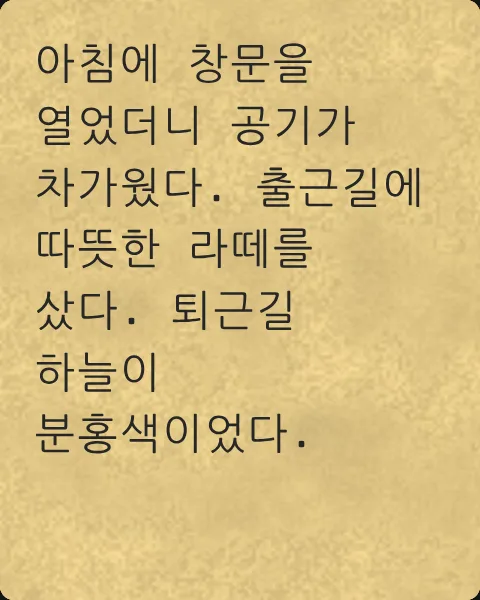
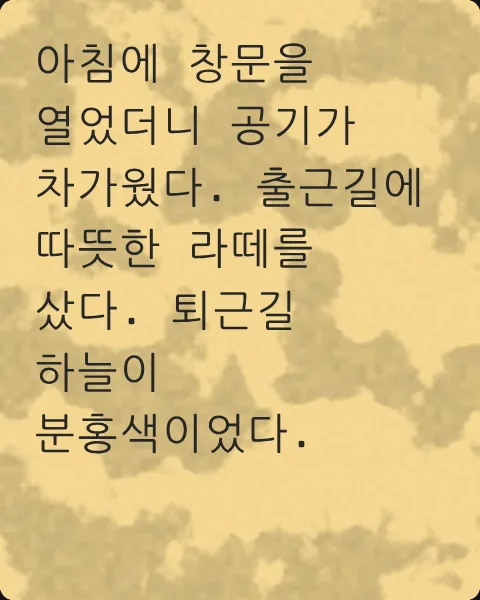
97차: 타자 메모 — 1차 줄 컬러 오른쪽에 이미지 칸(사진 고르기 · 바꾸기 · 빼기, 키보드 줄 사진 칸 없앰), 셔플 = 무늬 5종(풀숲 · 잎 그늘 · 물결 · 구름 하늘 · 종이 결) · 사진은 바램 · 보이는 부분 · 크기, 타이핑 모션 천천히(한 자 0.18초 · 3초 쉼 · 최대 20초 · 80칸)
Claude-Session: https://claude.ai/code/session_018YFXtycg7XUaka8AzxDZiV

diff --git a/app/new/tpl/typer/tpl.css b/app/new/tpl/typer/tpl.css
@@ -40,47 +40,87 @@
 .cd.ctyp .rb .ph { color: rgba(38,38,38,.45); }
 .cd.ctyp.edit.empty::after { background: rgba(38,38,38,.12); color: #3a3a3a; }
 .cd.ctyp .cur { display: none; }
-/* 모션 (피드 가운데 카드만): 8초마다 처음부터 한 자씩 찍혀요. 글자마다 나타나는 때를 40칸(b1~b40, 2%씩)으로 나눠 칸마다 키프레임 (아이폰도 같게) · 끝에서 커서 깜빡 */
-:is(.fi, .tt, .rp).play:not(.intro) .cd.ctyp .tk { animation-duration: 8s; animation-iteration-count: infinite; animation-timing-function: step-end; }
-:is(.fi, .tt, .rp).play:not(.intro) .cd.ctyp .cur { display: inline-block; width: .55em; height: 1.05em; background: #262626; vertical-align: -.18em; margin-left: .08em; animation: ty-cur 8s step-end infinite; }
-:is(.fi, .tt, .rp).play:not(.intro) .cd.ctyp .b1 { animation-name: ty1; } @keyframes ty1 { 0% { opacity: 0; } 2% { opacity: 1; } 96% { opacity: 0; } }
-:is(.fi, .tt, .rp).play:not(.intro) .cd.ctyp .b2 { animation-name: ty2; } @keyframes ty2 { 0% { opacity: 0; } 4% { opacity: 1; } 96% { opacity: 0; } }
-:is(.fi, .tt, .rp).play:not(.intro) .cd.ctyp .b3 { animation-name: ty3; } @keyframes ty3 { 0% { opacity: 0; } 6% { opacity: 1; } 96% { opacity: 0; } }
-:is(.fi, .tt, .rp).play:not(.intro) .cd.ctyp .b4 { animation-name: ty4; } @keyframes ty4 { 0% { opacity: 0; } 8% { opacity: 1; } 96% { opacity: 0; } }
-:is(.fi, .tt, .rp).play:not(.intro) .cd.ctyp .b5 { animation-name: ty5; } @keyframes ty5 { 0% { opacity: 0; } 10% { opacity: 1; } 96% { opacity: 0; } }
-:is(.fi, .tt, .rp).play:not(.intro) .cd.ctyp .b6 { animation-name: ty6; } @keyframes ty6 { 0% { opacity: 0; } 12% { opacity: 1; } 96% { opacity: 0; } }
-:is(.fi, .tt, .rp).play:not(.intro) .cd.ctyp .b7 { animation-name: ty7; } @keyframes ty7 { 0% { opacity: 0; } 14% { opacity: 1; } 96% { opacity: 0; } }
-:is(.fi, .tt, .rp).play:not(.intro) .cd.ctyp .b8 { animation-name: ty8; } @keyframes ty8 { 0% { opacity: 0; } 16% { opacity: 1; } 96% { opacity: 0; } }
-:is(.fi, .tt, .rp).play:not(.intro) .cd.ctyp .b9 { animation-name: ty9; } @keyframes ty9 { 0% { opacity: 0; } 18% { opacity: 1; } 96% { opacity: 0; } }
-:is(.fi, .tt, .rp).play:not(.intro) .cd.ctyp .b10 { animation-name: ty10; } @keyframes ty10 { 0% { opacity: 0; } 20% { opacity: 1; } 96% { opacity: 0; } }
-:is(.fi, .tt, .rp).play:not(.intro) .cd.ctyp .b11 { animation-name: ty11; } @keyframes ty11 { 0% { opacity: 0; } 22% { opacity: 1; } 96% { opacity: 0; } }
-:is(.fi, .tt, .rp).play:not(.intro) .cd.ctyp .b12 { animation-name: ty12; } @keyframes ty12 { 0% { opacity: 0; } 24% { opacity: 1; } 96% { opacity: 0; } }
-:is(.fi, .tt, .rp).play:not(.intro) .cd.ctyp .b13 { animation-name: ty13; } @keyframes ty13 { 0% { opacity: 0; } 26% { opacity: 1; } 96% { opacity: 0; } }
-:is(.fi, .tt, .rp).play:not(.intro) .cd.ctyp .b14 { animation-name: ty14; } @keyframes ty14 { 0% { opacity: 0; } 28% { opacity: 1; } 96% { opacity: 0; } }
-:is(.fi, .tt, .rp).play:not(.intro) .cd.ctyp .b15 { animation-name: ty15; } @keyframes ty15 { 0% { opacity: 0; } 30% { opacity: 1; } 96% { opacity: 0; } }
-:is(.fi, .tt, .rp).play:not(.intro) .cd.ctyp .b16 { animation-name: ty16; } @keyframes ty16 { 0% { opacity: 0; } 32% { opacity: 1; } 96% { opacity: 0; } }
-:is(.fi, .tt, .rp).play:not(.intro) .cd.ctyp .b17 { animation-name: ty17; } @keyframes ty17 { 0% { opacity: 0; } 34% { opacity: 1; } 96% { opacity: 0; } }
-:is(.fi, .tt, .rp).play:not(.intro) .cd.ctyp .b18 { animation-name: ty18; } @keyframes ty18 { 0% { opacity: 0; } 36% { opacity: 1; } 96% { opacity: 0; } }
-:is(.fi, .tt, .rp).play:not(.intro) .cd.ctyp .b19 { animation-name: ty19; } @keyframes ty19 { 0% { opacity: 0; } 38% { opacity: 1; } 96% { opacity: 0; } }
-:is(.fi, .tt, .rp).play:not(.intro) .cd.ctyp .b20 { animation-name: ty20; } @keyframes ty20 { 0% { opacity: 0; } 40% { opacity: 1; } 96% { opacity: 0; } }
-:is(.fi, .tt, .rp).play:not(.intro) .cd.ctyp .b21 { animation-name: ty21; } @keyframes ty21 { 0% { opacity: 0; } 42% { opacity: 1; } 96% { opacity: 0; } }
-:is(.fi, .tt, .rp).play:not(.intro) .cd.ctyp .b22 { animation-name: ty22; } @keyframes ty22 { 0% { opacity: 0; } 44% { opacity: 1; } 96% { opacity: 0; } }
-:is(.fi, .tt, .rp).play:not(.intro) .cd.ctyp .b23 { animation-name: ty23; } @keyframes ty23 { 0% { opacity: 0; } 46% { opacity: 1; } 96% { opacity: 0; } }
-:is(.fi, .tt, .rp).play:not(.intro) .cd.ctyp .b24 { animation-name: ty24; } @keyframes ty24 { 0% { opacity: 0; } 48% { opacity: 1; } 96% { opacity: 0; } }
-:is(.fi, .tt, .rp).play:not(.intro) .cd.ctyp .b25 { animation-name: ty25; } @keyframes ty25 { 0% { opacity: 0; } 50% { opacity: 1; } 96% { opacity: 0; } }
-:is(.fi, .tt, .rp).play:not(.intro) .cd.ctyp .b26 { animation-name: ty26; } @keyframes ty26 { 0% { opacity: 0; } 52% { opacity: 1; } 96% { opacity: 0; } }
-:is(.fi, .tt, .rp).play:not(.intro) .cd.ctyp .b27 { animation-name: ty27; } @keyframes ty27 { 0% { opacity: 0; } 54% { opacity: 1; } 96% { opacity: 0; } }
-:is(.fi, .tt, .rp).play:not(.intro) .cd.ctyp .b28 { animation-name: ty28; } @keyframes ty28 { 0% { opacity: 0; } 56% { opacity: 1; } 96% { opacity: 0; } }
-:is(.fi, .tt, .rp).play:not(.intro) .cd.ctyp .b29 { animation-name: ty29; } @keyframes ty29 { 0% { opacity: 0; } 58% { opacity: 1; } 96% { opacity: 0; } }
-:is(.fi, .tt, .rp).play:not(.intro) .cd.ctyp .b30 { animation-name: ty30; } @keyframes ty30 { 0% { opacity: 0; } 60% { opacity: 1; } 96% { opacity: 0; } }
-:is(.fi, .tt, .rp).play:not(.intro) .cd.ctyp .b31 { animation-name: ty31; } @keyframes ty31 { 0% { opacity: 0; } 62% { opacity: 1; } 96% { opacity: 0; } }
-:is(.fi, .tt, .rp).play:not(.intro) .cd.ctyp .b32 { animation-name: ty32; } @keyframes ty32 { 0% { opacity: 0; } 64% { opacity: 1; } 96% { opacity: 0; } }
-:is(.fi, .tt, .rp).play:not(.intro) .cd.ctyp .b33 { animation-name: ty33; } @keyframes ty33 { 0% { opacity: 0; } 66% { opacity: 1; } 96% { opacity: 0; } }
-:is(.fi, .tt, .rp).play:not(.intro) .cd.ctyp .b34 { animation-name: ty34; } @keyframes ty34 { 0% { opacity: 0; } 68% { opacity: 1; } 96% { opacity: 0; } }
-:is(.fi, .tt, .rp).play:not(.intro) .cd.ctyp .b35 { animation-name: ty35; } @keyframes ty35 { 0% { opacity: 0; } 70% { opacity: 1; } 96% { opacity: 0; } }
-:is(.fi, .tt, .rp).play:not(.intro) .cd.ctyp .b36 { animation-name: ty36; } @keyframes ty36 { 0% { opacity: 0; } 72% { opacity: 1; } 96% { opacity: 0; } }
-:is(.fi, .tt, .rp).play:not(.intro) .cd.ctyp .b37 { animation-name: ty37; } @keyframes ty37 { 0% { opacity: 0; } 74% { opacity: 1; } 96% { opacity: 0; } }
-:is(.fi, .tt, .rp).play:not(.intro) .cd.ctyp .b38 { animation-name: ty38; } @keyframes ty38 { 0% { opacity: 0; } 76% { opacity: 1; } 96% { opacity: 0; } }
-:is(.fi, .tt, .rp).play:not(.intro) .cd.ctyp .b39 { animation-name: ty39; } @keyframes ty39 { 0% { opacity: 0; } 78% { opacity: 1; } 96% { opacity: 0; } }
-:is(.fi, .tt, .rp).play:not(.intro) .cd.ctyp .b40 { animation-name: ty40; } @keyframes ty40 { 0% { opacity: 0; } 80% { opacity: 1; } 96% { opacity: 0; } }
-@keyframes ty-cur { 0% { opacity: 0; } 82% { opacity: 1; } 86% { opacity: 0; } 90% { opacity: 1; } 93% { opacity: 0; } 95% { opacity: 1; } 96% { opacity: 0; } }
+/* 모션 (피드 가운데 카드만, 97차 천천히): 한 자 0.18초씩 찍히고 다 찍으면 3초 쉬었다 처음부터. 나타나는 때 80칸(b1~b80, 1.1%씩) · 한 바퀴 길이는 글자에 (JS) · 커서는 늘 깜빡 */
+:is(.fi, .tt, .rp).play:not(.intro) .cd.ctyp .tk { animation-iteration-count: infinite; animation-timing-function: step-end; }
+:is(.fi, .tt, .rp).play:not(.intro) .cd.ctyp .cur { display: inline-block; width: .55em; height: 1.05em; background: #262626; vertical-align: -.18em; margin-left: .08em; animation: ty-cur 1s step-end infinite; }
+:is(.fi, .tt, .rp).play:not(.intro) .cd.ctyp .b1 { animation-name: ty1; } @keyframes ty1 { 0% { opacity: 0; } 1.1% { opacity: 1; } 97% { opacity: 0; } }
+:is(.fi, .tt, .rp).play:not(.intro) .cd.ctyp .b2 { animation-name: ty2; } @keyframes ty2 { 0% { opacity: 0; } 2.2% { opacity: 1; } 97% { opacity: 0; } }
+:is(.fi, .tt, .rp).play:not(.intro) .cd.ctyp .b3 { animation-name: ty3; } @keyframes ty3 { 0% { opacity: 0; } 3.3% { opacity: 1; } 97% { opacity: 0; } }
+:is(.fi, .tt, .rp).play:not(.intro) .cd.ctyp .b4 { animation-name: ty4; } @keyframes ty4 { 0% { opacity: 0; } 4.4% { opacity: 1; } 97% { opacity: 0; } }
+:is(.fi, .tt, .rp).play:not(.intro) .cd.ctyp .b5 { animation-name: ty5; } @keyframes ty5 { 0% { opacity: 0; } 5.5% { opacity: 1; } 97% { opacity: 0; } }
+:is(.fi, .tt, .rp).play:not(.intro) .cd.ctyp .b6 { animation-name: ty6; } @keyframes ty6 { 0% { opacity: 0; } 6.6% { opacity: 1; } 97% { opacity: 0; } }
+:is(.fi, .tt, .rp).play:not(.intro) .cd.ctyp .b7 { animation-name: ty7; } @keyframes ty7 { 0% { opacity: 0; } 7.7% { opacity: 1; } 97% { opacity: 0; } }
+:is(.fi, .tt, .rp).play:not(.intro) .cd.ctyp .b8 { animation-name: ty8; } @keyframes ty8 { 0% { opacity: 0; } 8.8% { opacity: 1; } 97% { opacity: 0; } }
+:is(.fi, .tt, .rp).play:not(.intro) .cd.ctyp .b9 { animation-name: ty9; } @keyframes ty9 { 0% { opacity: 0; } 9.9% { opacity: 1; } 97% { opacity: 0; } }
+:is(.fi, .tt, .rp).play:not(.intro) .cd.ctyp .b10 { animation-name: ty10; } @keyframes ty10 { 0% { opacity: 0; } 11.0% { opacity: 1; } 97% { opacity: 0; } }
+:is(.fi, .tt, .rp).play:not(.intro) .cd.ctyp .b11 { animation-name: ty11; } @keyframes ty11 { 0% { opacity: 0; } 12.1% { opacity: 1; } 97% { opacity: 0; } }
+:is(.fi, .tt, .rp).play:not(.intro) .cd.ctyp .b12 { animation-name: ty12; } @keyframes ty12 { 0% { opacity: 0; } 13.2% { opacity: 1; } 97% { opacity: 0; } }
+:is(.fi, .tt, .rp).play:not(.intro) .cd.ctyp .b13 { animation-name: ty13; } @keyframes ty13 { 0% { opacity: 0; } 14.3% { opacity: 1; } 97% { opacity: 0; } }
+:is(.fi, .tt, .rp).play:not(.intro) .cd.ctyp .b14 { animation-name: ty14; } @keyframes ty14 { 0% { opacity: 0; } 15.4% { opacity: 1; } 97% { opacity: 0; } }
+:is(.fi, .tt, .rp).play:not(.intro) .cd.ctyp .b15 { animation-name: ty15; } @keyframes ty15 { 0% { opacity: 0; } 16.5% { opacity: 1; } 97% { opacity: 0; } }
+:is(.fi, .tt, .rp).play:not(.intro) .cd.ctyp .b16 { animation-name: ty16; } @keyframes ty16 { 0% { opacity: 0; } 17.6% { opacity: 1; } 97% { opacity: 0; } }
+:is(.fi, .tt, .rp).play:not(.intro) .cd.ctyp .b17 { animation-name: ty17; } @keyframes ty17 { 0% { opacity: 0; } 18.7% { opacity: 1; } 97% { opacity: 0; } }
+:is(.fi, .tt, .rp).play:not(.intro) .cd.ctyp .b18 { animation-name: ty18; } @keyframes ty18 { 0% { opacity: 0; } 19.8% { opacity: 1; } 97% { opacity: 0; } }
+:is(.fi, .tt, .rp).play:not(.intro) .cd.ctyp .b19 { animation-name: ty19; } @keyframes ty19 { 0% { opacity: 0; } 20.9% { opacity: 1; } 97% { opacity: 0; } }
+:is(.fi, .tt, .rp).play:not(.intro) .cd.ctyp .b20 { animation-name: ty20; } @keyframes ty20 { 0% { opacity: 0; } 22.0% { opacity: 1; } 97% { opacity: 0; } }
+:is(.fi, .tt, .rp).play:not(.intro) .cd.ctyp .b21 { animation-name: ty21; } @keyframes ty21 { 0% { opacity: 0; } 23.1% { opacity: 1; } 97% { opacity: 0; } }
+:is(.fi, .tt, .rp).play:not(.intro) .cd.ctyp .b22 { animation-name: ty22; } @keyframes ty22 { 0% { opacity: 0; } 24.2% { opacity: 1; } 97% { opacity: 0; } }
+:is(.fi, .tt, .rp).play:not(.intro) .cd.ctyp .b23 { animation-name: ty23; } @keyframes ty23 { 0% { opacity: 0; } 25.3% { opacity: 1; } 97% { opacity: 0; } }
+:is(.fi, .tt, .rp).play:not(.intro) .cd.ctyp .b24 { animation-name: ty24; } @keyframes ty24 { 0% { opacity: 0; } 26.4% { opacity: 1; } 97% { opacity: 0; } }
+:is(.fi, .tt, .rp).play:not(.intro) .cd.ctyp .b25 { animation-name: ty25; } @keyframes ty25 { 0% { opacity: 0; } 27.5% { opacity: 1; } 97% { opacity: 0; } }
+:is(.fi, .tt, .rp).play:not(.intro) .cd.ctyp .b26 { animation-name: ty26; } @keyframes ty26 { 0% { opacity: 0; } 28.6% { opacity: 1; } 97% { opacity: 0; } }
+:is(.fi, .tt, .rp).play:not(.intro) .cd.ctyp .b27 { animation-name: ty27; } @keyframes ty27 { 0% { opacity: 0; } 29.7% { opacity: 1; } 97% { opacity: 0; } }
+:is(.fi, .tt, .rp).play:not(.intro) .cd.ctyp .b28 { animation-name: ty28; } @keyframes ty28 { 0% { opacity: 0; } 30.8% { opacity: 1; } 97% { opacity: 0; } }
+:is(.fi, .tt, .rp).play:not(.intro) .cd.ctyp .b29 { animation-name: ty29; } @keyframes ty29 { 0% { opacity: 0; } 31.9% { opacity: 1; } 97% { opacity: 0; } }
+:is(.fi, .tt, .rp).play:not(.intro) .cd.ctyp .b30 { animation-name: ty30; } @keyframes ty30 { 0% { opacity: 0; } 33.0% { opacity: 1; } 97% { opacity: 0; } }
+:is(.fi, .tt, .rp).play:not(.intro) .cd.ctyp .b31 { animation-name: ty31; } @keyframes ty31 { 0% { opacity: 0; } 34.1% { opacity: 1; } 97% { opacity: 0; } }
+:is(.fi, .tt, .rp).play:not(.intro) .cd.ctyp .b32 { animation-name: ty32; } @keyframes ty32 { 0% { opacity: 0; } 35.2% { opacity: 1; } 97% { opacity: 0; } }
+:is(.fi, .tt, .rp).play:not(.intro) .cd.ctyp .b33 { animation-name: ty33; } @keyframes ty33 { 0% { opacity: 0; } 36.3% { opacity: 1; } 97% { opacity: 0; } }
+:is(.fi, .tt, .rp).play:not(.intro) .cd.ctyp .b34 { animation-name: ty34; } @keyframes ty34 { 0% { opacity: 0; } 37.4% { opacity: 1; } 97% { opacity: 0; } }
+:is(.fi, .tt, .rp).play:not(.intro) .cd.ctyp .b35 { animation-name: ty35; } @keyframes ty35 { 0% { opacity: 0; } 38.5% { opacity: 1; } 97% { opacity: 0; } }
+:is(.fi, .tt, .rp).play:not(.intro) .cd.ctyp .b36 { animation-name: ty36; } @keyframes ty36 { 0% { opacity: 0; } 39.6% { opacity: 1; } 97% { opacity: 0; } }
+:is(.fi, .tt, .rp).play:not(.intro) .cd.ctyp .b37 { animation-name: ty37; } @keyframes ty37 { 0% { opacity: 0; } 40.7% { opacity: 1; } 97% { opacity: 0; } }
+:is(.fi, .tt, .rp).play:not(.intro) .cd.ctyp .b38 { animation-name: ty38; } @keyframes ty38 { 0% { opacity: 0; } 41.8% { opacity: 1; } 97% { opacity: 0; } }
+:is(.fi, .tt, .rp).play:not(.intro) .cd.ctyp .b39 { animation-name: ty39; } @keyframes ty39 { 0% { opacity: 0; } 42.9% { opacity: 1; } 97% { opacity: 0; } }
+:is(.fi, .tt, .rp).play:not(.intro) .cd.ctyp .b40 { animation-name: ty40; } @keyframes ty40 { 0% { opacity: 0; } 44.0% { opacity: 1; } 97% { opacity: 0; } }
+:is(.fi, .tt, .rp).play:not(.intro) .cd.ctyp .b41 { animation-name: ty41; } @keyframes ty41 { 0% { opacity: 0; } 45.1% { opacity: 1; } 97% { opacity: 0; } }
+:is(.fi, .tt, .rp).play:not(.intro) .cd.ctyp .b42 { animation-name: ty42; } @keyframes ty42 { 0% { opacity: 0; } 46.2% { opacity: 1; } 97% { opacity: 0; } }
+:is(.fi, .tt, .rp).play:not(.intro) .cd.ctyp .b43 { animation-name: ty43; } @keyframes ty43 { 0% { opacity: 0; } 47.3% { opacity: 1; } 97% { opacity: 0; } }
+:is(.fi, .tt, .rp).play:not(.intro) .cd.ctyp .b44 { animation-name: ty44; } @keyframes ty44 { 0% { opacity: 0; } 48.4% { opacity: 1; } 97% { opacity: 0; } }
+:is(.fi, .tt, .rp).play:not(.intro) .cd.ctyp .b45 { animation-name: ty45; } @keyframes ty45 { 0% { opacity: 0; } 49.5% { opacity: 1; } 97% { opacity: 0; } }
+:is(.fi, .tt, .rp).play:not(.intro) .cd.ctyp .b46 { animation-name: ty46; } @keyframes ty46 { 0% { opacity: 0; } 50.6% { opacity: 1; } 97% { opacity: 0; } }
+:is(.fi, .tt, .rp).play:not(.intro) .cd.ctyp .b47 { animation-name: ty47; } @keyframes ty47 { 0% { opacity: 0; } 51.7% { opacity: 1; } 97% { opacity: 0; } }
+:is(.fi, .tt, .rp).play:not(.intro) .cd.ctyp .b48 { animation-name: ty48; } @keyframes ty48 { 0% { opacity: 0; } 52.8% { opacity: 1; } 97% { opacity: 0; } }
+:is(.fi, .tt, .rp).play:not(.intro) .cd.ctyp .b49 { animation-name: ty49; } @keyframes ty49 { 0% { opacity: 0; } 53.9% { opacity: 1; } 97% { opacity: 0; } }
+:is(.fi, .tt, .rp).play:not(.intro) .cd.ctyp .b50 { animation-name: ty50; } @keyframes ty50 { 0% { opacity: 0; } 55.0% { opacity: 1; } 97% { opacity: 0; } }
+:is(.fi, .tt, .rp).play:not(.intro) .cd.ctyp .b51 { animation-name: ty51; } @keyframes ty51 { 0% { opacity: 0; } 56.1% { opacity: 1; } 97% { opacity: 0; } }
+:is(.fi, .tt, .rp).play:not(.intro) .cd.ctyp .b52 { animation-name: ty52; } @keyframes ty52 { 0% { opacity: 0; } 57.2% { opacity: 1; } 97% { opacity: 0; } }
+:is(.fi, .tt, .rp).play:not(.intro) .cd.ctyp .b53 { animation-name: ty53; } @keyframes ty53 { 0% { opacity: 0; } 58.3% { opacity: 1; } 97% { opacity: 0; } }
+:is(.fi, .tt, .rp).play:not(.intro) .cd.ctyp .b54 { animation-name: ty54; } @keyframes ty54 { 0% { opacity: 0; } 59.4% { opacity: 1; } 97% { opacity: 0; } }
+:is(.fi, .tt, .rp).play:not(.intro) .cd.ctyp .b55 { animation-name: ty55; } @keyframes ty55 { 0% { opacity: 0; } 60.5% { opacity: 1; } 97% { opacity: 0; } }
+:is(.fi, .tt, .rp).play:not(.intro) .cd.ctyp .b56 { animation-name: ty56; } @keyframes ty56 { 0% { opacity: 0; } 61.6% { opacity: 1; } 97% { opacity: 0; } }
+:is(.fi, .tt, .rp).play:not(.intro) .cd.ctyp .b57 { animation-name: ty57; } @keyframes ty57 { 0% { opacity: 0; } 62.7% { opacity: 1; } 97% { opacity: 0; } }
+:is(.fi, .tt, .rp).play:not(.intro) .cd.ctyp .b58 { animation-name: ty58; } @keyframes ty58 { 0% { opacity: 0; } 63.8% { opacity: 1; } 97% { opacity: 0; } }
+:is(.fi, .tt, .rp).play:not(.intro) .cd.ctyp .b59 { animation-name: ty59; } @keyframes ty59 { 0% { opacity: 0; } 64.9% { opacity: 1; } 97% { opacity: 0; } }
+:is(.fi, .tt, .rp).play:not(.intro) .cd.ctyp .b60 { animation-name: ty60; } @keyframes ty60 { 0% { opacity: 0; } 66.0% { opacity: 1; } 97% { opacity: 0; } }
+:is(.fi, .tt, .rp).play:not(.intro) .cd.ctyp .b61 { animation-name: ty61; } @keyframes ty61 { 0% { opacity: 0; } 67.1% { opacity: 1; } 97% { opacity: 0; } }
+:is(.fi, .tt, .rp).play:not(.intro) .cd.ctyp .b62 { animation-name: ty62; } @keyframes ty62 { 0% { opacity: 0; } 68.2% { opacity: 1; } 97% { opacity: 0; } }
+:is(.fi, .tt, .rp).play:not(.intro) .cd.ctyp .b63 { animation-name: ty63; } @keyframes ty63 { 0% { opacity: 0; } 69.3% { opacity: 1; } 97% { opacity: 0; } }
+:is(.fi, .tt, .rp).play:not(.intro) .cd.ctyp .b64 { animation-name: ty64; } @keyframes ty64 { 0% { opacity: 0; } 70.4% { opacity: 1; } 97% { opacity: 0; } }
+:is(.fi, .tt, .rp).play:not(.intro) .cd.ctyp .b65 { animation-name: ty65; } @keyframes ty65 { 0% { opacity: 0; } 71.5% { opacity: 1; } 97% { opacity: 0; } }
+:is(.fi, .tt, .rp).play:not(.intro) .cd.ctyp .b66 { animation-name: ty66; } @keyframes ty66 { 0% { opacity: 0; } 72.6% { opacity: 1; } 97% { opacity: 0; } }
+:is(.fi, .tt, .rp).play:not(.intro) .cd.ctyp .b67 { animation-name: ty67; } @keyframes ty67 { 0% { opacity: 0; } 73.7% { opacity: 1; } 97% { opacity: 0; } }
+:is(.fi, .tt, .rp).play:not(.intro) .cd.ctyp .b68 { animation-name: ty68; } @keyframes ty68 { 0% { opacity: 0; } 74.8% { opacity: 1; } 97% { opacity: 0; } }
+:is(.fi, .tt, .rp).play:not(.intro) .cd.ctyp .b69 { animation-name: ty69; } @keyframes ty69 { 0% { opacity: 0; } 75.9% { opacity: 1; } 97% { opacity: 0; } }
+:is(.fi, .tt, .rp).play:not(.intro) .cd.ctyp .b70 { animation-name: ty70; } @keyframes ty70 { 0% { opacity: 0; } 77.0% { opacity: 1; } 97% { opacity: 0; } }
+:is(.fi, .tt, .rp).play:not(.intro) .cd.ctyp .b71 { animation-name: ty71; } @keyframes ty71 { 0% { opacity: 0; } 78.1% { opacity: 1; } 97% { opacity: 0; } }
+:is(.fi, .tt, .rp).play:not(.intro) .cd.ctyp .b72 { animation-name: ty72; } @keyframes ty72 { 0% { opacity: 0; } 79.2% { opacity: 1; } 97% { opacity: 0; } }
+:is(.fi, .tt, .rp).play:not(.intro) .cd.ctyp .b73 { animation-name: ty73; } @keyframes ty73 { 0% { opacity: 0; } 80.3% { opacity: 1; } 97% { opacity: 0; } }
+:is(.fi, .tt, .rp).play:not(.intro) .cd.ctyp .b74 { animation-name: ty74; } @keyframes ty74 { 0% { opacity: 0; } 81.4% { opacity: 1; } 97% { opacity: 0; } }
+:is(.fi, .tt, .rp).play:not(.intro) .cd.ctyp .b75 { animation-name: ty75; } @keyframes ty75 { 0% { opacity: 0; } 82.5% { opacity: 1; } 97% { opacity: 0; } }
+:is(.fi, .tt, .rp).play:not(.intro) .cd.ctyp .b76 { animation-name: ty76; } @keyframes ty76 { 0% { opacity: 0; } 83.6% { opacity: 1; } 97% { opacity: 0; } }
+:is(.fi, .tt, .rp).play:not(.intro) .cd.ctyp .b77 { animation-name: ty77; } @keyframes ty77 { 0% { opacity: 0; } 84.7% { opacity: 1; } 97% { opacity: 0; } }
+:is(.fi, .tt, .rp).play:not(.intro) .cd.ctyp .b78 { animation-name: ty78; } @keyframes ty78 { 0% { opacity: 0; } 85.8% { opacity: 1; } 97% { opacity: 0; } }
+:is(.fi, .tt, .rp).play:not(.intro) .cd.ctyp .b79 { animation-name: ty79; } @keyframes ty79 { 0% { opacity: 0; } 86.9% { opacity: 1; } 97% { opacity: 0; } }
+:is(.fi, .tt, .rp).play:not(.intro) .cd.ctyp .b80 { animation-name: ty80; } @keyframes ty80 { 0% { opacity: 0; } 88.0% { opacity: 1; } 97% { opacity: 0; } }
+@keyframes ty-cur { 0% { opacity: 1; } 50% { opacity: 0; } }

diff --git a/app/new/tpl/typer/tpl.js b/app/new/tpl/typer/tpl.js
@@ -27,15 +27,24 @@ function noise(seed) {
     const a = at(xi, yi), b = at(xi + 1, yi), c = at(xi, yi + 1), d = at(xi + 1, yi + 1); return a + (b - a) * u + (c - a) * v + (a - b - c + d) * u * v; };
 }
 const cache = new Map(), work = new Map();
-// 무늬 그림: 400 × 712 (9:16), 4:5 카드는 가운데를 덮어요. 흑백 풀숲 → 밝게 → 색 곱하기
+// 무늬 그림: 400 × 712 (9:16), 4:5 카드는 가운데를 덮어요. 흑백 무늬 → 밝게 → 색 곱하기
+// 셔플(씨앗)마다 무늬 종류 5가지 (97차, 앤드류 '셔플이 안 되는 느낌'): 0 풀숲 · 1 큰 잎 그늘 · 2 물결 · 3 구름 하늘 · 4 종이 결
+export const KINDS = ['풀숲', '잎 그늘', '물결', '구름 하늘', '종이 결'];
+export const kindOf = seed => Math.floor(rng(((seed || 1) ^ 0x51ed27) >>> 0)() * KINDS.length);
 function texture(seed, wash) {
   const k = `t|${seed}|${wash}`; if (cache.has(k)) return cache.get(k);
+  const kind = kindOf(seed), sm = (a0, b0, t) => { t = Math.min(1, Math.max(0, (t - a0) / (b0 - a0))); return t * t * (3 - 2 * t); };
   const W = 400, Hh = 712, cv = document.createElement('canvas'); cv.width = W; cv.height = Hh;
   const x = cv.getContext('2d'), im = x.createImageData(W, Hh), n = noise(seed >>> 0), n2 = noise((seed ^ 0x9e37) >>> 0), [wr, wg, wb] = wash.match(/\d+/g).map(Number);
   for (let j = 0; j < Hh; j++) for (let i = 0; i < W; i++) {
     let v = 0, a = 1, f = 1 / 52; for (let o = 0; o < 5; o++) { v += n(i * f + o * 17.3, j * f + o * 9.1) * a; a *= .5; f *= 2.03; } v /= 1.94;
-    const lf = n2(i / 3.2, j / 3.2), big = v > .5 ? 1 : 0;   // 큰 덩어리(나무 그늘) + 잔 잎
-    let L = .74 + .34 * (v - .5) * 1.3 + .2 * (lf - .5) * (.6 + .8 * big) - .06 * big;
+    const lf = n2(i / 3.2, j / 3.2), big = v > .5 ? 1 : 0, y = j / Hh;
+    let L;
+    if (kind === 0) L = .74 + .34 * (v - .5) * 1.3 + .2 * (lf - .5) * (.6 + .8 * big) - .06 * big;   // 풀숲: 큰 덩어리 + 잔 잎
+    else if (kind === 1) { const sh = sm(.46, .56, v); L = .9 - .34 * sh + .16 * (n2(i / 7, j / 7) - .5) * sh + .05 * (lf - .5); }   // 잎 그늘: 또렷한 그늘 무늬
+    else if (kind === 2) { const w = Math.sin(j / 9 + v * 9 + Math.sin(i / 60) * 1.5); L = .82 + .13 * w + .06 * (lf - .5); }   // 물결: 가로로 일렁이는 줄
+    else if (kind === 3) { const cl = sm(.42, .7, v); L = .8 + .12 * y + .14 * cl + .03 * (lf - .5); }   // 구름 하늘: 위가 조금 짙고 흰 구름
+    else { const fb = n(i / 40 + j / 2.2, j / 1.4); L = .86 + .1 * (fb - .5) + .08 * (v - .5) + .05 * (lf - .5); }   // 종이 결: 가는 섬유
     L = 1 - (1 - Math.min(1, Math.max(0, L))) * .42;   // 바랜 인쇄처럼 밝게
     const p = (i + j * W) * 4; im.data[p] = L * wr; im.data[p + 1] = L * wg; im.data[p + 2] = L * wb; im.data[p + 3] = 255;
   }
@@ -44,14 +53,17 @@ function texture(seed, wash) {
 }
 // 내 사진 그림: 흑백 → 밝게 바램 → 색 곱하기 (긴 쪽 900px). 다 되면 화면의 같은 칸을 바꿔요
 const loadImg = src => new Promise((ok, no) => { const i = new Image(); i.crossOrigin = 'anonymous'; i.onload = () => ok(i); i.onerror = no; i.src = src; });
-function photoKey(c, wash) { const src = c.bg?.id === 'photo' ? srcOf(c.bg) : ''; return src ? `p|${c.bg.ph || src}|${wash}` : ''; }
+// 사진은 셔플(씨앗)마다 바램 정도 3단계 · 보이는 부분 · 크기(꽉 · 1.4배)가 바뀌어요 (97차)
+const photoLook = seed => { const r = rng(((seed || 1) ^ 0x2f6b) >>> 0); return { lift: [.36, .48, .6][Math.floor(r() * 3)], x: Math.round(r() * 100), y: Math.round(r() * 100), z: r() < .5 ? 'cover' : '140%' }; };
+function photoKey(c, wash) { const src = c.bg?.id === 'photo' ? srcOf(c.bg) : ''; return src ? `p|${c.bg.ph || src}|${wash}|${photoLook(c.seed).lift}` : ''; }
 function makePhoto(c, wash) {
   const k = photoKey(c, wash), src = srcOf(c.bg); if (!k || cache.has(k)) return Promise.resolve(cache.get(k));
   if (!work.has(k)) work.set(k, loadImg(src).then(im => {
     const s = Math.min(1, 900 / Math.max(im.naturalWidth, im.naturalHeight)), W = Math.round(im.naturalWidth * s), Hh = Math.round(im.naturalHeight * s);
     const cv = document.createElement('canvas'); cv.width = W; cv.height = Hh; const x = cv.getContext('2d'); x.drawImage(im, 0, 0, W, Hh);
     const d = x.getImageData(0, 0, W, Hh), [wr, wg, wb] = wash.match(/\d+/g).map(Number);
-    for (let p = 0; p < d.data.length; p += 4) { let L = (.299 * d.data[p] + .587 * d.data[p + 1] + .114 * d.data[p + 2]) / 255; L = .5 + L * .5; d.data[p] = L * wr; d.data[p + 1] = L * wg; d.data[p + 2] = L * wb; }
+    const lift = photoLook(c.seed).lift;
+    for (let p = 0; p < d.data.length; p += 4) { let L = (.299 * d.data[p] + .587 * d.data[p + 1] + .114 * d.data[p + 2]) / 255; L = lift + L * (1 - lift); d.data[p] = L * wr; d.data[p + 1] = L * wg; d.data[p + 2] = L * wb; }
     x.putImageData(d, 0, 0);
     const u = cv.toDataURL('image/jpeg', .88); cache.set(k, u);
     document.querySelectorAll('.cd.ctyp .tbg').forEach(e => { if (e.dataset.k === k) e.style.backgroundImage = `url(${u})`; });
@@ -64,9 +76,11 @@ function makePhoto(c, wash) {
 function chars(root) {
   const texts = [], w = document.createTreeWalker(root, NodeFilter.SHOW_TEXT); let t;
   while ((t = w.nextNode())) if (!t.parentElement.closest('.tk')) texts.push(t);
-  const n = texts.reduce((a, t) => a + t.data.length, 0), per = Math.min(.05, 1 / Math.max(1, n)) * 40; let i = 0;   // 짧은 글은 천천히(한 자 2%), 긴 글은 80% 안에 다
+  // 97차 (앤드류 '조금 천천히'): 한 자 0.18초, 다 찍고 3초 쉬고 다시. 한 바퀴는 6~20초 (아주 긴 글만 그 안에 들게 빨라져요).
+  // 나타나는 때는 80칸(b1~b80, 칸마다 1.1%)으로 나눠 키프레임 · 한 바퀴 길이는 글자마다 animation-duration으로
+  const n = texts.reduce((a, t) => a + t.data.length, 0), T = Math.max(6, Math.min(20, n * .18 + 3)), dt = Math.min(.18, (T - 3) / Math.max(1, n)); let i = 0;
   texts.forEach(tn => { const frag = document.createDocumentFragment();
-    [...tn.data].forEach(ch => { const s = document.createElement('span'); s.className = 'tk b' + Math.min(40, 1 + Math.floor(i++ * per)); s.textContent = ch; frag.appendChild(s); });
+    [...tn.data].forEach(ch => { const s = document.createElement('span'), b = Math.max(1, Math.min(80, Math.round((i++ * dt + .3) / T * 100 / 1.1))); s.className = 'tk b' + b; s.style.animationDuration = T.toFixed(1) + 's'; s.textContent = ch; frag.appendChild(s); });
     tn.replaceWith(frag); });
   root.insertAdjacentHTML('beforeend', '<span class="cur"></span>');
 }
@@ -84,7 +98,8 @@ function typer(c, { edit = false } = {}) {
   const ta = `text-align:${{ l: 'left', c: 'center', r: 'right' }[a.h || 'l']};line-height:${lh}`;
   el.dataset.dp = foot ? infoPos(c) : 'none';
   el.classList.toggle('hsg', !!sg);
-  el.innerHTML = `<div class="tbg" data-k="${pk}" style="background-color:${wash};${img ? `background-image:url(${img})` : ''}"></div>
+  const lk = pk ? photoLook(c.seed) : null;
+  el.innerHTML = `<div class="tbg" data-k="${pk}" style="background-color:${wash};${img ? `background-image:url(${img});` : ''}${lk ? `background-position:${lk.x}% ${lk.y}%;background-size:${lk.z}` : ''}"></div>
     <div class="rb body" data-v="${a.v || 't'}" style="${ta}" ${edit ? 'contenteditable="true" spellcheck="false" autocapitalize="off"' : ''}>${empty && !edit ? '<span class="ph">오늘 있었던 일을 써 보세요.</span>' : html}</div>
     ${edit ? `<div class="rb exm" style="${ta}">${SAMPLE.html}</div>` : ''}
     <div class="foot" style="font-size:${fz}cqw;justify-content:${{ left: 'flex-start', center: 'center', right: 'flex-end' }[dhOf(c)]}"><span>${foot}</span></div>${sg ? `<div class="sgn" data-h="${sg}" style="font-size:${fz}cqw">${esc(c.signTxt)}</div>` : ''}`;
@@ -96,7 +111,7 @@ function typer(c, { edit = false } = {}) {
 
 export default {
   id: 'typer', name: '타자 메모', info: '모든 길이 · 내 사진 가능 · 셔플마다 새 무늬', paid: true, css: true,
-  tools: { photo: true, emo: false, page: false, shuf: true, style: true, font: false, bg: 'combo', dp: true },
+  tools: { photo: 'tab', emo: false, page: false, shuf: true, style: true, font: false, bg: 'combo', dp: true },   // photo 'tab' = 1차 줄 컬러 오른쪽 이미지 칸 (97차)
   fonts: [['type.css', 'DT Courier Prime'], ['type.css', 'DT Nanum Gothic Coding']],
   sample: SAMPLE,
   datePos: 'bottom',

diff --git a/app/new/js/main.js b/app/new/js/main.js
@@ -1983,7 +1983,7 @@ const REC_T = { 밤: '밤에 쓰기 좋은', 비: '비 오는 날엔', 눈: '눈
 const WXK = { sun: '맑음', suncloud: '구름 조금', cloud: '흐림', rain: '비', snow: '눈', thunder: '천둥', fog: '안개' };
 const dayLine = (now = new Date()) => { let w = ''; try { const x = JSON.parse(localStorage.getItem('daytale.wx') || 'null'); if (x && Date.now() - x.at < 3 * 3600e3 && WXK[x.kind]) w = ` · ${WXK[x.kind]}${x.temp != null ? ` ${x.temp}°` : ''}`; } catch {} return `${now.getMonth() + 1}월 ${now.getDate()}일 ${'일월화수목금토'[now.getDay()]}요일${w}`; };
 // 78차: 새 버전 확인. 앱으로 돌아올 때(다른 앱 갔다 오기) version.txt가 지금과 다르면 저절로 새로 고쳐요. 쓰는 중엔 안 해요
-const BUILD = '96', BUILD_TAG = '11-25 96차';
+const BUILD = '97', BUILD_TAG = '11-25 97차';
 let verAt = 0;
 const checkVer = () => {
   if (document.hidden || Date.now() - verAt < 20e3) return; verAt = Date.now();
@@ -2141,7 +2141,9 @@ function viewWrite({ fmt, id, like }) {
   // 포토 포맷은 쓰는 중 줄에 사진 칸이 없어요 (팔레트 1칸 · 빈 장 가운데 버튼에서 골라요)
   // 8칸: 스타일 보기 = 키보드 · 비율 · 서식 · 글꼴 · 배경 · 셔플/필터 · ↶ · ↷ / 쓰기 보기 = 키보드 · 이모티콘 · 새 장 · 사진 · 빈칸 · 빈칸 · ↶ · ↷.
   // 지금 못 쓰는 칸은 숨겨요(빈칸). 되돌리기 · 다시하기만 흐리게 남아요
-  const T1 = [['kb', ''], ['ratio', 's'], ['fmt', 's'], ['font', 's'], ['bg', 's'], [f.tools.filter ? 'img' : 'shuf', 's'], ['emo', 'w'], ['page', 'w'], ['quote', 'w'], [f.tools.bg === 'photo' ? '' : 'photo', 'w'], ['ai', 'w'], ['undo', ''], ['redo', '']];   // ai = AI 글쓰기 (11-20, 모든 포맷)
+  // 디자인 템플릿 중 사진을 받는 틀(tools.photo 'tab', 타자 메모 97차): 기본 글쓰기처럼 컬러 칸 오른쪽에 이미지 칸 + 셔플 (글꼴 칸 자리를 써서 8칸). 키보드 줄엔 사진 칸 없음
+  const imgTab = f.tools.photo === 'tab';
+  const T1 = [['kb', ''], ['ratio', 's'], ['fmt', 's'], ...(imgTab ? [] : [['font', 's']]), ['bg', 's'], ...(imgTab ? [['img', 's'], ['shuf', 's']] : [[f.tools.filter ? 'img' : 'shuf', 's']]), ['emo', 'w'], ['page', 'w'], ['quote', 'w'], [f.tools.bg === 'photo' || imgTab ? '' : 'photo', 'w'], ['ai', 'w'], ['undo', ''], ['redo', '']];   // ai = AI 글쓰기 (11-20, 모든 포맷)
   app.innerHTML = `<div class="wr ${rich ? 'rich' : 'plain'}">
     <header class="top"><button class="cb" data-a="back" aria-label="뒤로">${ic('back')}</button><div class="nm stt"></div><button class="cb w" data-a="ok" aria-label="완료">${ic('check')}</button></header>
     <div class="area"><section class="stage"></section></div>
@@ -2520,7 +2522,7 @@ function viewWrite({ fmt, id, like }) {
     if (k === 'quote') return !!(rich && f.tools.page);   // 문장 넣기: 글포맷 · 아트
     if (k === 'fmt') return !!f.tools.style;
     if (k === 'font') return !!(f.tools.style && f.tools.font);
-    if (k === 'img') return !!f.tools.filter;
+    if (k === 'img') return !!f.tools.filter || imgTab;
     const v = f.tools[k]; return k === 'shuf' && v === 'code' ? !!findBg(ps().bg?.id).code : !!v;
   };
   function tools() {
@@ -2600,6 +2602,7 @@ function viewWrite({ fmt, id, like }) {
     if (st.tab === 'bg' && f.tools.bg === 'combo') return paintComboRow();
     if (st.tab === 'bg' && f.tools.bg === 'art') return paintArtRow();
     if (st.tab === 'img' && f.tools.filter) return paintPhotoRow();
+    if (st.tab === 'img' && imgTab) return paintImgRow();
     if (st.tab === 'filter' && f.tools.filter) return paintFilterRow();
     if (st.tab === 'bg' && f.tools.bg) return paintBgRow();
     if (st.tab === 'font' && f.tools.font) return paintFontRow();
@@ -2701,6 +2704,15 @@ function viewWrite({ fmt, id, like }) {
   // 사진이 없는 장은 사진 칸 · 딤 · 노이즈만 (필터는 사진이 생기면)
   const PLAY = '<svg class="ic" viewBox="0 0 24 24" aria-hidden="true"><path d="M7 4.5v15l12-7.5z" fill="currentColor" stroke="none"/></svg>';
   const PAUSE = '<svg class="ic" viewBox="0 0 24 24" aria-hidden="true"><path d="M7 5h3.2v14H7zM13.8 5H17v14h-3.2z" fill="currentColor" stroke="none"/></svg>';
+  // 이미지 줄 (사진을 받는 디자인 템플릿, 97차): 사진 고르기(넣은 뒤엔 그 사진 썸네일, 누르면 바꾸기) · 빼기. 딤 · 노이즈 · 필터는 틀이 알아서
+  function paintImgRow() {
+    const u = card.bg?.id === 'photo' ? srcOf(card.bg) : '';
+    row2.className = 'st2 g6';
+    row2.innerHTML = `${u ? `<button class="k cv sel" data-x="photo" aria-label="사진 바꾸기" style="background-image:url(${u})"></button><button class="k" data-x="noph" aria-label="사진 빼기">${ic('trash')}</button>` : `<button class="k" data-x="photo" aria-label="사진 고르기">${ic('album')}</button><span></span>`}<span></span><span></span><span></span><span></span>`;
+    $$('button', row2).forEach(x => x.addEventListener('pointerdown', e => e.preventDefault()));
+    $('[data-x=photo]', row2).onclick = pickPhoto;
+    const np = $('[data-x=noph]', row2); if (np) np.onclick = () => { flush(); card.bg = { id: 'g1', dim: 'dark' }; push(); draw(); paintImgRow(); pop('사진 뺌', null, '이미지'); };
+  }
   function paintPhotoRow() {
     const pb = ps().bg, has = pb.id === 'photo' && !!srcOf(pb), vid = has && !!pb.vd;
     row2.className = 'st2 g6';
@@ -2779,15 +2791,14 @@ function viewWrite({ fmt, id, like }) {
   // 배경 줄(디자인 템플릿, 91차): 컬러칩(직접 색) · 색 조합 14개. 칩을 고르면 색은 그대로 두고 셔플은 표시만 바꿔요.
   // 고른 칩을 한 번 더 누르면 풀려서 다시 셔플마다 색도 바뀌어요
   function paintComboRow() {
-    const keep = $('.swp', row2)?.scrollLeft, own = isHex(card.pal), phu = card.bg?.id === 'photo' ? srcOf(card.bg) : '';   // 내 사진을 넣은 디자인 카드(타자 메모, 96차): 맨 앞 사진 칸 = 누르면 사진 빼기
+    const keep = $('.swp', row2)?.scrollLeft, own = isHex(card.pal);
     row2.className = 'st2 g6 bgr cbr';
     row2.innerHTML = `<button class="k hue ${own ? 'sel' : ''}" data-x="hue" aria-label="직접 색"><i></i></button>
-      <div class="swp">${phu ? `<button class="k sw phc sel" data-x="noph" aria-label="사진 빼기" style="background-image:url(${phu})"><i>${ic('close')}</i></button>` : ''}${COMBOS.map((c, i) => `<button class="k sw ${card.pal === i ? 'sel' : ''}" data-p="${i}" aria-label="${c[0]}" style="background:${c[1]}"></button>`).join('')}<span class="end"></span></div>`;
+      <div class="swp">${COMBOS.map((c, i) => `<button class="k sw ${card.pal === i ? 'sel' : ''}" data-p="${i}" aria-label="${c[0]}" style="background:${c[1]}"></button>`).join('')}<span class="end"></span></div>`;
     const sw = $('.swp', row2), sel = $('.sel', sw);
     if (keep != null) sw.scrollLeft = keep; else if (sel) sw.scrollLeft = Math.max(0, sel.offsetLeft - sw.offsetLeft);
     $$('button', row2).forEach(x => x.addEventListener('pointerdown', e => e.preventDefault()));
     $('[data-x=hue]', row2).onclick = () => { st.tab = 'hue'; paintRow2(); };
-    const np = $('[data-x=noph]', row2); if (np) np.onclick = () => { flush(); card.bg = { id: 'g1', dim: 'dark' }; push(); draw(); paintComboRow(); pop('사진 뺌', null, '배경'); };
     $$('[data-p]', row2).forEach(t => t.onclick = () => {
       flush(); const i = +t.dataset.p, off = card.pal === i;
       card.pal = off ? undefined : i; card.palPos = undefined;
